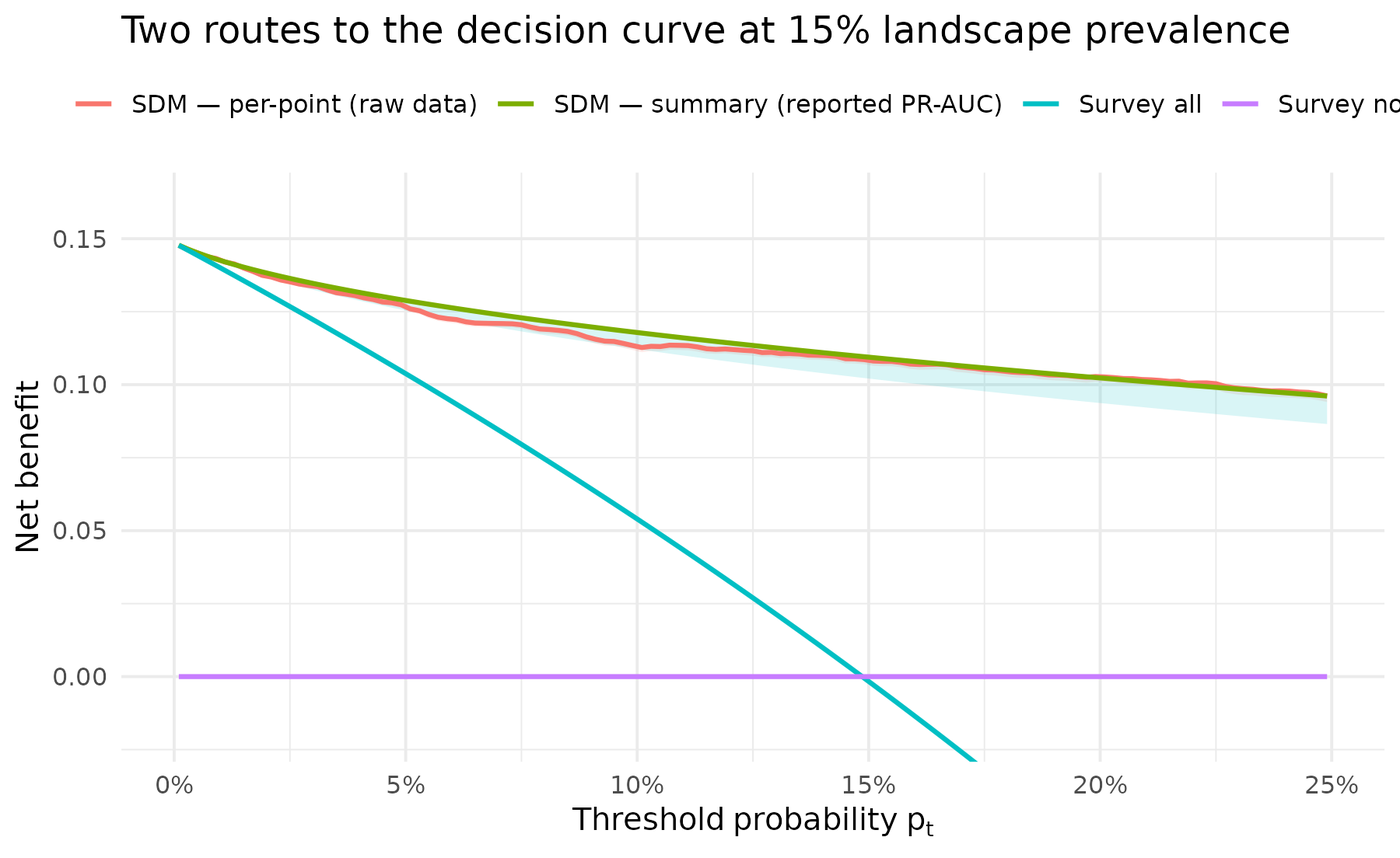
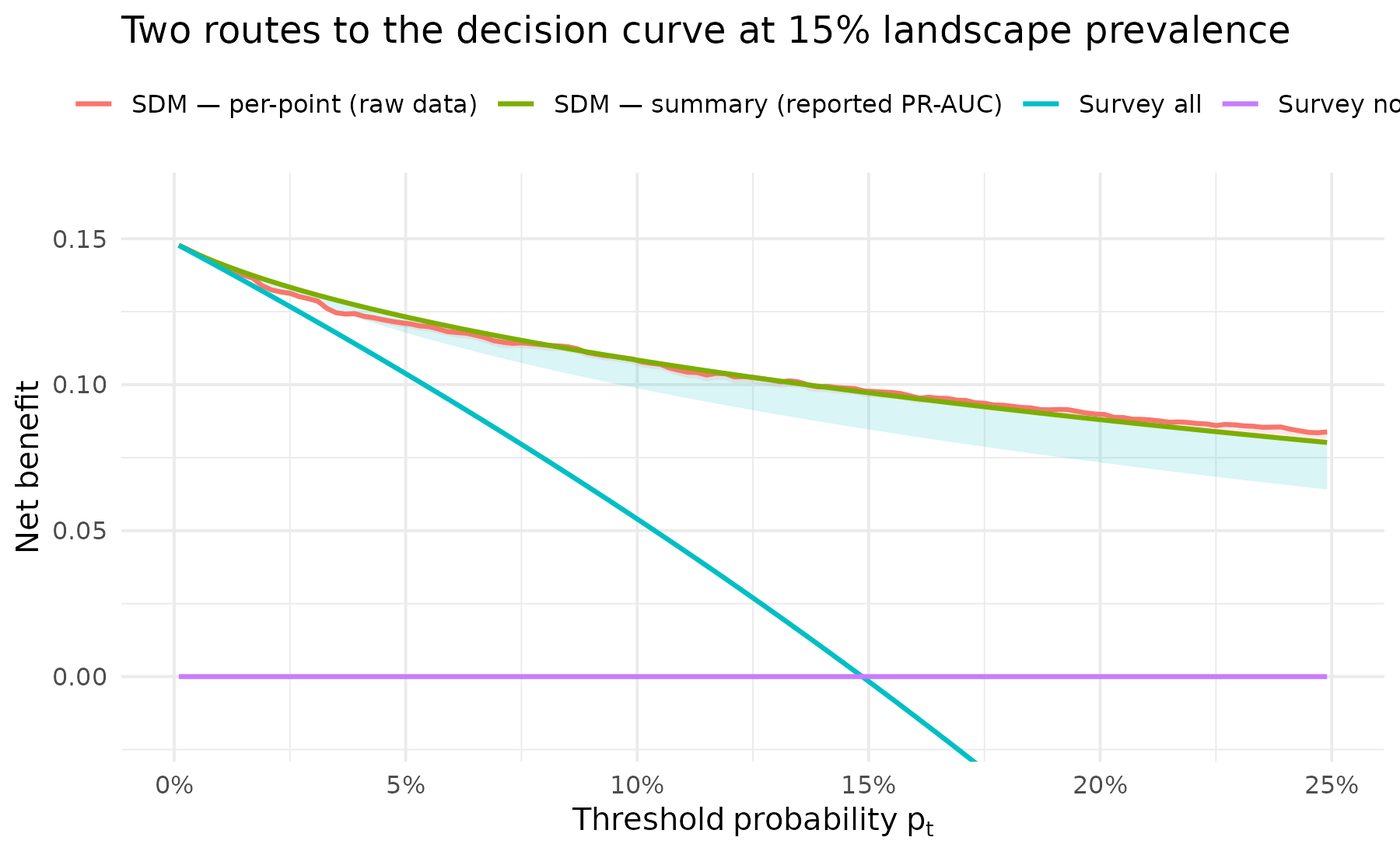
Deploying to gh-pages from @ sagesteppe/lsed@43293ad737e412a2ff20ced6fd2d6b18034b13b0 🚀

Changed region(s): [[0.1556, 0.308, 0.9644, 0.5851]]

diff --git a/articles/lsed.html b/articles/lsed.html
@@ -68,16 +68,18 @@ as would be available in the literature.</li>
 <li>an exact <strong>per-point</strong> route, if you have the held-out
 test set from the model.</li>
 </ol>
-<p>This quickstart fits one real model — a <code>caret</code> GLM with
-an area-of-applicability mask from <code>CAST</code>, and uses both
-routes. The toy landscape follows the virtual-species convention of
-Grimmett et al. (2021): a field of spatially autocorrelated predictors
-and a rare species whose true niche depends on only a few of them.</p>
+<p>This quickstart fits one real model — a <code>caret</code> GLM
+cross-validated on spatial folds, with an area-of-applicability mask,
+both from <code>CAST</code> — and uses both routes. The toy landscape
+follows the virtual-species convention of Grimmett et al. (2021): a
+field of spatially autocorrelated predictors and a rare species whose
+true niche depends on only a few of them.</p>
 <div class="sourceCode" id="cb1"><pre class="downlit sourceCode r">
 <code class="sourceCode R"><span><span class="kw"><a href="https://rdrr.io/r/base/library.html" class="external-link">library</a></span><span class="op">(</span><span class="va"><a href="https://sagesteppe.github.io/lsed/">lsed</a></span><span class="op">)</span></span>
 <span><span class="kw"><a href="https://rdrr.io/r/base/library.html" class="external-link">library</a></span><span class="op">(</span><span class="va"><a href="https://rspatial.org/" class="external-link">terra</a></span><span class="op">)</span></span>
 <span><span class="kw"><a href="https://rdrr.io/r/base/library.html" class="external-link">library</a></span><span class="op">(</span><span class="va"><a href="https://github.com/HannaMeyer/CAST" class="external-link">CAST</a></span><span class="op">)</span></span>
 <span><span class="kw"><a href="https://rdrr.io/r/base/library.html" class="external-link">library</a></span><span class="op">(</span><span class="va"><a href="https://github.com/topepo/caret" class="external-link">caret</a></span><span class="op">)</span></span>
+<span><span class="kw"><a href="https://rdrr.io/r/base/library.html" class="external-link">library</a></span><span class="op">(</span><span class="va"><a href="https://r-spatial.github.io/sf/" class="external-link">sf</a></span><span class="op">)</span></span>
 <span><span class="kw"><a href="https://rdrr.io/r/base/library.html" class="external-link">library</a></span><span class="op">(</span><span class="va"><a href="https://ggplot2.tidyverse.org" class="external-link">ggplot2</a></span><span class="op">)</span></span>
 <span><span class="fu"><a href="https://rdrr.io/r/base/Random.html" class="external-link">set.seed</a></span><span class="op">(</span><span class="fl">1</span><span class="op">)</span></span></code></pre></div>
 <div class="section level2">
@@ -89,7 +91,8 @@ and we fit the model on <code>K = 5</code> covariates (the three real
 ones plus two noise).</p>
 <div class="sourceCode" id="cb2"><pre class="downlit sourceCode r">
 <code class="sourceCode R"><span><span class="va">nx</span> <span class="op">&lt;-</span> <span class="va">ny</span> <span class="op">&lt;-</span> <span class="fl">80</span>; <span class="va">P</span> <span class="op">&lt;-</span> <span class="fl">12</span>; <span class="va">K</span> <span class="op">&lt;-</span> <span class="fl">5</span></span>
-<span><span class="va">r0</span> <span class="op">&lt;-</span> <span class="fu"><a href="https://rspatial.github.io/terra/reference/rast.html" class="external-link">rast</a></span><span class="op">(</span>nrows <span class="op">=</span> <span class="va">ny</span>, ncols <span class="op">=</span> <span class="va">nx</span>, xmin <span class="op">=</span> <span class="fl">0</span>, xmax <span class="op">=</span> <span class="fl">1</span>, ymin <span class="op">=</span> <span class="fl">0</span>, ymax <span class="op">=</span> <span class="fl">1</span><span class="op">)</span></span>
+<span><span class="va">r0</span> <span class="op">&lt;-</span> <span class="fu"><a href="https://rspatial.github.io/terra/reference/rast.html" class="external-link">rast</a></span><span class="op">(</span>nrows <span class="op">=</span> <span class="va">ny</span>, ncols <span class="op">=</span> <span class="va">nx</span>, xmin <span class="op">=</span> <span class="fl">0</span>, xmax <span class="op">=</span> <span class="fl">1</span>, ymin <span class="op">=</span> <span class="fl">0</span>, ymax <span class="op">=</span> <span class="fl">1</span>,</span>
+<span>           crs <span class="op">=</span> <span class="st">"EPSG:3035"</span><span class="op">)</span>                       <span class="co"># projected, so folds use planar distance</span></span>
 <span><span class="va">xy</span> <span class="op">&lt;-</span> <span class="fu"><a href="https://rspatial.github.io/terra/reference/xyCellFrom.html" class="external-link">xyFromCell</a></span><span class="op">(</span><span class="va">r0</span>, <span class="fl">1</span><span class="op">:</span><span class="fu"><a href="https://rspatial.github.io/terra/reference/dimensions.html" class="external-link">ncell</a></span><span class="op">(</span><span class="va">r0</span><span class="op">)</span><span class="op">)</span></span>
 <span></span>
 <span><span class="va">smooth_field</span> <span class="op">&lt;-</span> <span class="kw">function</span><span class="op">(</span><span class="va">x</span>, <span class="va">y</span>, <span class="va">nh</span> <span class="op">=</span> <span class="fl">4</span>, <span class="va">mf</span> <span class="op">=</span> <span class="fl">1.6</span><span class="op">)</span> <span class="op">{</span>   <span class="co"># one autocorrelated layer</span></span>
@@ -135,18 +138,56 @@ the landscape’s, one gap <code>lsed</code> corrects for.</p>
 <span><span class="co">#&gt; [1] 0.25</span></span></code></pre></div>
 </div>
 <div class="section level2">
-<h2 id="fit-a-glm-using-caret-and-its-area-of-applicability">Fit a GLM using Caret and its area of applicability<a class="anchor" aria-label="anchor" href="#fit-a-glm-using-caret-and-its-area-of-applicability"></a>
+<h2 id="fit-a-glm-with-spatial-cross-validation-and-its-area-of-applicability">Fit a GLM with spatial cross-validation, and its area of
+applicability<a class="anchor" aria-label="anchor" href="#fit-a-glm-with-spatial-cross-validation-and-its-area-of-applicability"></a>
 </h2>
+<p>Because the survey is one spatial cluster, random cross-validation
+folds would leak neighbours between train and test and flatter the
+model. <code><a href="https://hannameyer.github.io/CAST/reference/knndm.html" class="external-link">CAST::knndm()</a></code> instead builds folds whose
+train-to-test distances match the train-to-prediction distances across
+the landscape, so the resampling reflects the real extrapolation the
+model faces, and we pass those folds to <code><a href="https://rdrr.io/pkg/caret/man/train.html" class="external-link">caret::train()</a></code>.</p>
+<p>The area of applicability is then built from the <strong>training
+presences only</strong> — pseudo-absences, scattered across environments
+the taxon never occupies, would conflate the dissimilarity index. The
+mask therefore keeps the evaluation points whose environments resemble
+occupied habitat, the ones where distinguishing presence from absence is
+actually hard.</p>
 <div class="sourceCode" id="cb4"><pre class="downlit sourceCode r">
-<code class="sourceCode R"><span><span class="va">m</span> <span class="op">&lt;-</span> <span class="fu"><a href="https://rdrr.io/pkg/caret/man/train.html" class="external-link">train</a></span><span class="op">(</span>x <span class="op">=</span> <span class="va">train</span><span class="op">[</span><span class="va">vars</span><span class="op">]</span>, y <span class="op">=</span> <span class="va">train</span><span class="op">$</span><span class="va">pa</span>,</span>
-<span>           method <span class="op">=</span> <span class="st">"glm"</span>, family <span class="op">=</span> <span class="st">"binomial"</span>,</span>
-<span>           trControl <span class="op">=</span> <span class="fu"><a href="https://rdrr.io/pkg/caret/man/trainControl.html" class="external-link">trainControl</a></span><span class="op">(</span>method <span class="op">=</span> <span class="st">"none"</span>, classProbs <span class="op">=</span> <span class="cn">TRUE</span><span class="op">)</span><span class="op">)</span></span>
+<code class="sourceCode R"><span><span class="co"># spatial folds: train-to-test distances matched to the prediction geography</span></span>
+<span><span class="va">tr_pts</span> <span class="op">&lt;-</span> <span class="fu"><a href="https://r-spatial.github.io/sf/reference/st_as_sf.html" class="external-link">st_as_sf</a></span><span class="op">(</span></span>
+<span>  <span class="fu"><a href="https://rdrr.io/r/base/data.frame.html" class="external-link">data.frame</a></span><span class="op">(</span></span>
+<span>    x <span class="op">=</span> <span class="va">xy</span><span class="op">[</span><span class="va">tr_cells</span>, <span class="fl">1</span><span class="op">]</span>, </span>
+<span>    y <span class="op">=</span> <span class="va">xy</span><span class="op">[</span><span class="va">tr_cells</span>, <span class="fl">2</span><span class="op">]</span></span>
+<span>    <span class="op">)</span>,</span>
+<span>  coords <span class="op">=</span> <span class="fu"><a href="https://rdrr.io/r/base/c.html" class="external-link">c</a></span><span class="op">(</span><span class="st">"x"</span>, <span class="st">"y"</span><span class="op">)</span>, </span>
+<span>  crs <span class="op">=</span> <span class="st">"EPSG:3035"</span></span>
+<span>  <span class="op">)</span></span>
+<span></span>
+<span><span class="va">folds</span>  <span class="op">&lt;-</span> <span class="fu"><a href="https://hannameyer.github.io/CAST/reference/knndm.html" class="external-link">knndm</a></span><span class="op">(</span>tpoints <span class="op">=</span> <span class="va">tr_pts</span>, modeldomain <span class="op">=</span> <span class="va">env</span>, k <span class="op">=</span> <span class="fl">5</span><span class="op">)</span></span>
+<span></span>
+<span><span class="va">m</span> <span class="op">&lt;-</span> <span class="fu"><a href="https://rdrr.io/pkg/caret/man/train.html" class="external-link">train</a></span><span class="op">(</span></span>
+<span>  x <span class="op">=</span> <span class="va">train</span><span class="op">[</span><span class="va">vars</span><span class="op">]</span>, y <span class="op">=</span> <span class="va">train</span><span class="op">$</span><span class="va">pa</span>,</span>
+<span>  method <span class="op">=</span> <span class="st">"glm"</span>, family <span class="op">=</span> <span class="st">"binomial"</span>,</span>
+<span>  trControl <span class="op">=</span> <span class="fu"><a href="https://rdrr.io/pkg/caret/man/trainControl.html" class="external-link">trainControl</a></span><span class="op">(</span></span>
+<span>    method <span class="op">=</span> <span class="st">"cv"</span>,</span>
+<span>    index <span class="op">=</span> <span class="va">folds</span><span class="op">$</span><span class="va">indx_train</span>,</span>
+<span>    indexOut <span class="op">=</span> <span class="va">folds</span><span class="op">$</span><span class="va">indx_test</span>,</span>
+<span>    savePredictions <span class="op">=</span> <span class="st">"final"</span>, </span>
+<span>    classProbs <span class="op">=</span> <span class="cn">TRUE</span></span>
+<span>    <span class="op">)</span></span>
+<span>  <span class="op">)</span></span>
 <span></span>
 <span><span class="va">prob</span> <span class="op">&lt;-</span> <span class="fu"><a href="https://rspatial.github.io/terra/reference/predict.html" class="external-link">predict</a></span><span class="op">(</span><span class="va">m</span>, <span class="va">eval</span>, type <span class="op">=</span> <span class="st">"prob"</span><span class="op">)</span><span class="op">[</span>, <span class="st">"pres"</span><span class="op">]</span> <span class="co"># held-out predictions</span></span>
 <span></span>
-<span><span class="co"># AOA from CAST, weighted by the fitted model's variable importance</span></span>
-<span><span class="va">aoa_r</span> <span class="op">&lt;-</span> <span class="fu"><a href="https://hannameyer.github.io/CAST/reference/aoa.html" class="external-link">aoa</a></span><span class="op">(</span>newdata <span class="op">=</span> <span class="va">env</span><span class="op">[[</span><span class="va">vars</span><span class="op">]</span><span class="op">]</span>, model <span class="op">=</span> <span class="va">m</span>, verbose <span class="op">=</span> <span class="cn">FALSE</span><span class="op">)</span></span>
-<span><span class="va">di</span>    <span class="op">&lt;-</span> <span class="fu">terra</span><span class="fu">::</span><span class="fu"><a href="https://rspatial.github.io/terra/reference/extract.html" class="external-link">extract</a></span><span class="op">(</span><span class="va">aoa_r</span><span class="op">$</span><span class="va">DI</span>, <span class="va">xy</span><span class="op">[</span><span class="va">ev_cells</span>, <span class="op">]</span><span class="op">)</span><span class="op">[</span>, <span class="fl">1</span><span class="op">]</span></span>
+<span><span class="co"># AOA from CAST, referenced on the TRAINING PRESENCES only (not pseudo-absences)</span></span>
+<span><span class="va">pres_rows</span> <span class="op">&lt;-</span> <span class="va">train</span><span class="op">$</span><span class="va">pa</span> <span class="op">==</span> <span class="st">"pres"</span></span>
+<span><span class="va">aoa_r</span>  <span class="op">&lt;-</span> <span class="fu"><a href="https://hannameyer.github.io/CAST/reference/aoa.html" class="external-link">aoa</a></span><span class="op">(</span></span>
+<span>  newdata <span class="op">=</span> <span class="va">env</span><span class="op">[[</span><span class="va">vars</span><span class="op">]</span><span class="op">]</span>, </span>
+<span>  train <span class="op">=</span> <span class="va">train</span><span class="op">[</span><span class="va">pres_rows</span>, <span class="va">vars</span><span class="op">]</span>, </span>
+<span>  verbose <span class="op">=</span> <span class="cn">FALSE</span></span>
+<span>  <span class="op">)</span></span>
+<span><span class="va">di</span>     <span class="op">&lt;-</span> <span class="fu">terra</span><span class="fu">::</span><span class="fu"><a href="https://rspatial.github.io/terra/reference/extract.html" class="external-link">extract</a></span><span class="op">(</span><span class="va">aoa_r</span><span class="op">$</span><span class="va">DI</span>, <span class="va">xy</span><span class="op">[</span><span class="va">ev_cells</span>, <span class="op">]</span><span class="op">)</span><span class="op">[</span>, <span class="fl">1</span><span class="op">]</span></span>
 <span><span class="va">in_aoa</span> <span class="op">&lt;-</span> <span class="va">di</span> <span class="op">&lt;=</span> <span class="va">aoa_r</span><span class="op">$</span><span class="va">parameters</span><span class="op">$</span><span class="va">threshold</span> <span class="co"># keep interpolation points only</span></span></code></pre></div>
 <p>Scoring <strong>inside the area of applicability</strong> keeps the
 comparison honest. The model is judged in how it performs while
@@ -165,9 +206,9 @@ them scoped to just within the AOA, whereas most users will only have
 them across the landscape.</p>
 <div class="sourceCode" id="cb6"><pre class="downlit sourceCode r">
 <code class="sourceCode R"><span><span class="fu"><a href="../reference/roc_auc.html">roc_auc</a></span><span class="op">(</span><span class="va">truth</span>, <span class="va">pred</span><span class="op">)</span> <span class="co"># prevalence-invariant</span></span>
-<span><span class="co">#&gt; [1] 0.9423054</span></span>
+<span><span class="co">#&gt; [1] 0.9108728</span></span>
 <span><span class="fu"><a href="../reference/ap_pointwise.html">ap_pointwise</a></span><span class="op">(</span><span class="va">truth</span>, <span class="va">pred</span>, <span class="va">pi0</span><span class="op">)</span> <span class="co"># PR-AUC at the design prevalence</span></span>
-<span><span class="co">#&gt; [1] 0.8761836</span></span></code></pre></div>
+<span><span class="co">#&gt; [1] 0.9151644</span></span></code></pre></div>
 </div>
 <div class="section level2">
 <h2 id="route-1-summary-from-one-reported-number-to-a-decision-curve">Route 1 — summary: from one reported number to a decision curve<a class="anchor" aria-label="anchor" href="#route-1-summary-from-one-reported-number-to-a-decision-curve"></a>
@@ -186,13 +227,13 @@ into a plausibility band.</p>
 <span><span class="va">rec</span> <span class="op">&lt;-</span> <span class="fu"><a href="../reference/ap_scalar_to_prev.html">ap_scalar_to_prev</a></span><span class="op">(</span><span class="va">pr_auc</span>, pi0 <span class="op">=</span> <span class="va">pi0</span>, pi_target <span class="op">=</span> <span class="va">pi_land</span><span class="op">)</span></span>
 <span><span class="va">rec</span><span class="op">[</span><span class="fu"><a href="https://rdrr.io/r/base/c.html" class="external-link">c</a></span><span class="op">(</span><span class="st">"mu"</span>, <span class="st">"implied_roc_auc"</span>, <span class="st">"ap_target"</span><span class="op">)</span><span class="op">]</span></span>
 <span><span class="co">#&gt; $mu</span></span>
-<span><span class="co">#&gt; [1] 2.242677</span></span>
+<span><span class="co">#&gt; [1] 1.893501</span></span>
 <span><span class="co">#&gt; </span></span>
 <span><span class="co">#&gt; $implied_roc_auc</span></span>
-<span><span class="co">#&gt; [1] 0.9436091</span></span>
+<span><span class="co">#&gt; [1] 0.9096996</span></span>
 <span><span class="co">#&gt; </span></span>
 <span><span class="co">#&gt; $ap_target</span></span>
-<span><span class="co">#&gt; [1] 0.801286</span></span>
+<span><span class="co">#&gt; [1] 0.7037962</span></span>
 <span></span>
 <span><span class="va">nb_sum</span>   <span class="op">&lt;-</span> <span class="fu"><a href="../reference/nb_binormal.html">nb_binormal</a></span><span class="op">(</span><span class="va">rec</span><span class="op">$</span><span class="va">mu</span>, <span class="va">pi_land</span>, <span class="va">pt</span><span class="op">)</span></span>
 <span><span class="va">band_sum</span> <span class="op">&lt;-</span> <span class="fu"><a href="../reference/nb_binormal_band.html">nb_binormal_band</a></span><span class="op">(</span><span class="va">pr_auc</span>, <span class="va">pi_land</span>, <span class="va">pt</span>, spread <span class="op">=</span> <span class="fl">0.04</span>, pi0 <span class="op">=</span> <span class="va">pi0</span><span class="op">)</span></span></code></pre></div>
@@ -211,12 +252,12 @@ survey-everything reference.</p>
 <div class="sourceCode" id="cb8"><pre class="downlit sourceCode r">
 <code class="sourceCode R"><span><span class="fu"><a href="../reference/cox_calibration.html">cox_calibration</a></span><span class="op">(</span><span class="va">truth</span>, <span class="va">pred</span><span class="op">)</span> <span class="co"># intercept, slope</span></span>
 <span><span class="co">#&gt; cox_intercept     cox_slope </span></span>
-<span><span class="co">#&gt;     0.4558527     1.0647456</span></span>
+<span><span class="co">#&gt;     0.4613659     1.1509441</span></span>
 <span></span>
 <span><span class="va">pred_rc</span> <span class="op">&lt;-</span> <span class="fu"><a href="../reference/recalibrate_to_prevalence.html">recalibrate_to_prevalence</a></span><span class="op">(</span><span class="va">pred</span>, <span class="va">pi0</span>, <span class="va">pi_land</span><span class="op">)</span></span>
 <span></span>
 <span><span class="va">nb_pt</span> <span class="op">&lt;-</span> <span class="fu"><a href="../reference/nb_exact.html">nb_exact</a></span><span class="op">(</span><span class="va">truth</span>, <span class="va">pred_rc</span>, <span class="va">pi_land</span>, <span class="va">pt</span><span class="op">)</span></span>
-<span><span class="va">ci_pt</span> <span class="op">&lt;-</span> <span class="fu"><a href="../reference/nb_exact_ci.html">nb_exact_ci</a></span><span class="op">(</span><span class="va">truth</span>, <span class="va">pred_rc</span>, <span class="va">pi_land</span>, <span class="va">pt</span>, B <span class="op">=</span> <span class="fl">499</span>, level <span class="op">=</span> <span class="fl">0.8</span><span class="op">)</span></span>
+<span><span class="va">ci_pt</span> <span class="op">&lt;-</span> <span class="fu"><a href="../reference/nb_exact_ci.html">nb_exact_ci</a></span><span class="op">(</span><span class="va">truth</span>, <span class="va">pred_rc</span>, <span class="va">pi_land</span>, <span class="va">pt</span>, B <span class="op">=</span> <span class="fl">99</span>, level <span class="op">=</span> <span class="fl">0.8</span><span class="op">)</span></span>
 <span><span class="va">nb_all</span> <span class="op">&lt;-</span> <span class="fu"><a href="../reference/nb_treat_all.html">nb_treat_all</a></span><span class="op">(</span><span class="va">pi_land</span>, <span class="va">pt</span><span class="op">)</span> <span class="co"># treat-none is identically 0</span></span></code></pre></div>
 </div>
 <div class="section level2">

diff --git a/articles/lsed.md b/articles/lsed.md
@@ -11,11 +11,12 @@ decision curve:
 2.  an exact **per-point** route, if you have the held-out test set from
     the model.
 
-This quickstart fits one real model — a `caret` GLM with an
-area-of-applicability mask from `CAST`, and uses both routes. The toy
-landscape follows the virtual-species convention of Grimmett et
-al. (2021): a field of spatially autocorrelated predictors and a rare
-species whose true niche depends on only a few of them.
+This quickstart fits one real model — a `caret` GLM cross-validated on
+spatial folds, with an area-of-applicability mask, both from `CAST` —
+and uses both routes. The toy landscape follows the virtual-species
+convention of Grimmett et al. (2021): a field of spatially
+autocorrelated predictors and a rare species whose true niche depends on
+only a few of them.
 
 ``` r
 
@@ -23,6 +24,7 @@ library(lsed)
 library(terra)
 library(CAST)
 library(caret)
+library(sf)
 library(ggplot2)
 set.seed(1)
 ```
@@ -37,7 +39,8 @@ noise).
 ``` r
 
 nx <- ny <- 80; P <- 12; K <- 5
-r0 <- rast(nrows = ny, ncols = nx, xmin = 0, xmax = 1, ymin = 0, ymax = 1)
+r0 <- rast(nrows = ny, ncols = nx, xmin = 0, xmax = 1, ymin = 0, ymax = 1,
+           crs = "EPSG:3035")                       # projected, so folds use planar distance
 xy <- xyFromCell(r0, 1:ncell(r0))
 
 smooth_field <- function(x, y, nh = 4, mf = 1.6) {   # one autocorrelated layer
@@ -87,19 +90,59 @@ round(mean(y), 3) # enriched design prevalence
 #> [1] 0.25
 ```
 
-## Fit a GLM using Caret and its area of applicability
+## Fit a GLM with spatial cross-validation, and its area of applicability
+
+Because the survey is one spatial cluster, random cross-validation folds
+would leak neighbours between train and test and flatter the model.
+[`CAST::knndm()`](https://hannameyer.github.io/CAST/reference/knndm.html)
+instead builds folds whose train-to-test distances match the
+train-to-prediction distances across the landscape, so the resampling
+reflects the real extrapolation the model faces, and we pass those folds
+to [`caret::train()`](https://rdrr.io/pkg/caret/man/train.html).
+
+The area of applicability is then built from the **training presences
+only** — pseudo-absences, scattered across environments the taxon never
+occupies, would conflate the dissimilarity index. The mask therefore
+keeps the evaluation points whose environments resemble occupied
+habitat, the ones where distinguishing presence from absence is actually
+hard.
 
 ``` r
 
-m <- train(x = train[vars], y = train$pa,
-           method = "glm", family = "binomial",
-           trControl = trainControl(method = "none", classProbs = TRUE))
+# spatial folds: train-to-test distances matched to the prediction geography
+tr_pts <- st_as_sf(
+  data.frame(
+    x = xy[tr_cells, 1], 
+    y = xy[tr_cells, 2]
+    ),
+  coords = c("x", "y"), 
+  crs = "EPSG:3035"
+  )
+
+folds  <- knndm(tpoints = tr_pts, modeldomain = env, k = 5)
+
+m <- train(
+  x = train[vars], y = train$pa,
+  method = "glm", family = "binomial",
+  trControl = trainControl(
+    method = "cv",
+    index = folds$indx_train,
+    indexOut = folds$indx_test,
+    savePredictions = "final", 
+    classProbs = TRUE
+    )
+  )
 
 prob <- predict(m, eval, type = "prob")[, "pres"] # held-out predictions
 
-# AOA from CAST, weighted by the fitted model's variable importance
-aoa_r <- aoa(newdata = env[[vars]], model = m, verbose = FALSE)
-di    <- terra::extract(aoa_r$DI, xy[ev_cells, ])[, 1]
+# AOA from CAST, referenced on the TRAINING PRESENCES only (not pseudo-absences)
+pres_rows <- train$pa == "pres"
+aoa_r  <- aoa(
+  newdata = env[[vars]], 
+  train = train[pres_rows, vars], 
+  verbose = FALSE
+  )
+di     <- terra::extract(aoa_r$DI, xy[ev_cells, ])[, 1]
 in_aoa <- di <= aoa_r$parameters$threshold # keep interpolation points only
 ```
 
@@ -124,9 +167,9 @@ across the landscape.
 ``` r
 
 roc_auc(truth, pred) # prevalence-invariant
-#> [1] 0.9423054
+#> [1] 0.9108728
 ap_pointwise(truth, pred, pi0) # PR-AUC at the design prevalence
-#> [1] 0.8761836
+#> [1] 0.9151644
 ```
 
 ## Route 1 — summary: from one reported number to a decision curve
@@ -149,13 +192,13 @@ pt     <- seq(0.001, 0.25, by = 0.002) # threshold probabilities
 rec <- ap_scalar_to_prev(pr_auc, pi0 = pi0, pi_target = pi_land)
 rec[c("mu", "implied_roc_auc", "ap_target")]
 #> $mu
-#> [1] 2.242677
+#> [1] 1.893501
 #> 
 #> $implied_roc_auc
-#> [1] 0.9436091
+#> [1] 0.9096996
 #> 
 #> $ap_target
-#> [1] 0.801286
+#> [1] 0.7037962
 
 nb_sum   <- nb_binormal(rec$mu, pi_land, pt)
 band_sum <- nb_binormal_band(pr_auc, pi_land, pt, spread = 0.04, pi0 = pi0)
@@ -180,12 +223,12 @@ the survey-everything reference.
 
 cox_calibration(truth, pred) # intercept, slope
 #> cox_intercept     cox_slope 
-#>     0.4558527     1.0647456
+#>     0.4613659     1.1509441
 
 pred_rc <- recalibrate_to_prevalence(pred, pi0, pi_land)
 
 nb_pt <- nb_exact(truth, pred_rc, pi_land, pt)
-ci_pt <- nb_exact_ci(truth, pred_rc, pi_land, pt, B = 499, level = 0.8)
+ci_pt <- nb_exact_ci(truth, pred_rc, pi_land, pt, B = 99, level = 0.8)
 nb_all <- nb_treat_all(pi_land, pt) # treat-none is identically 0
 ```
 
